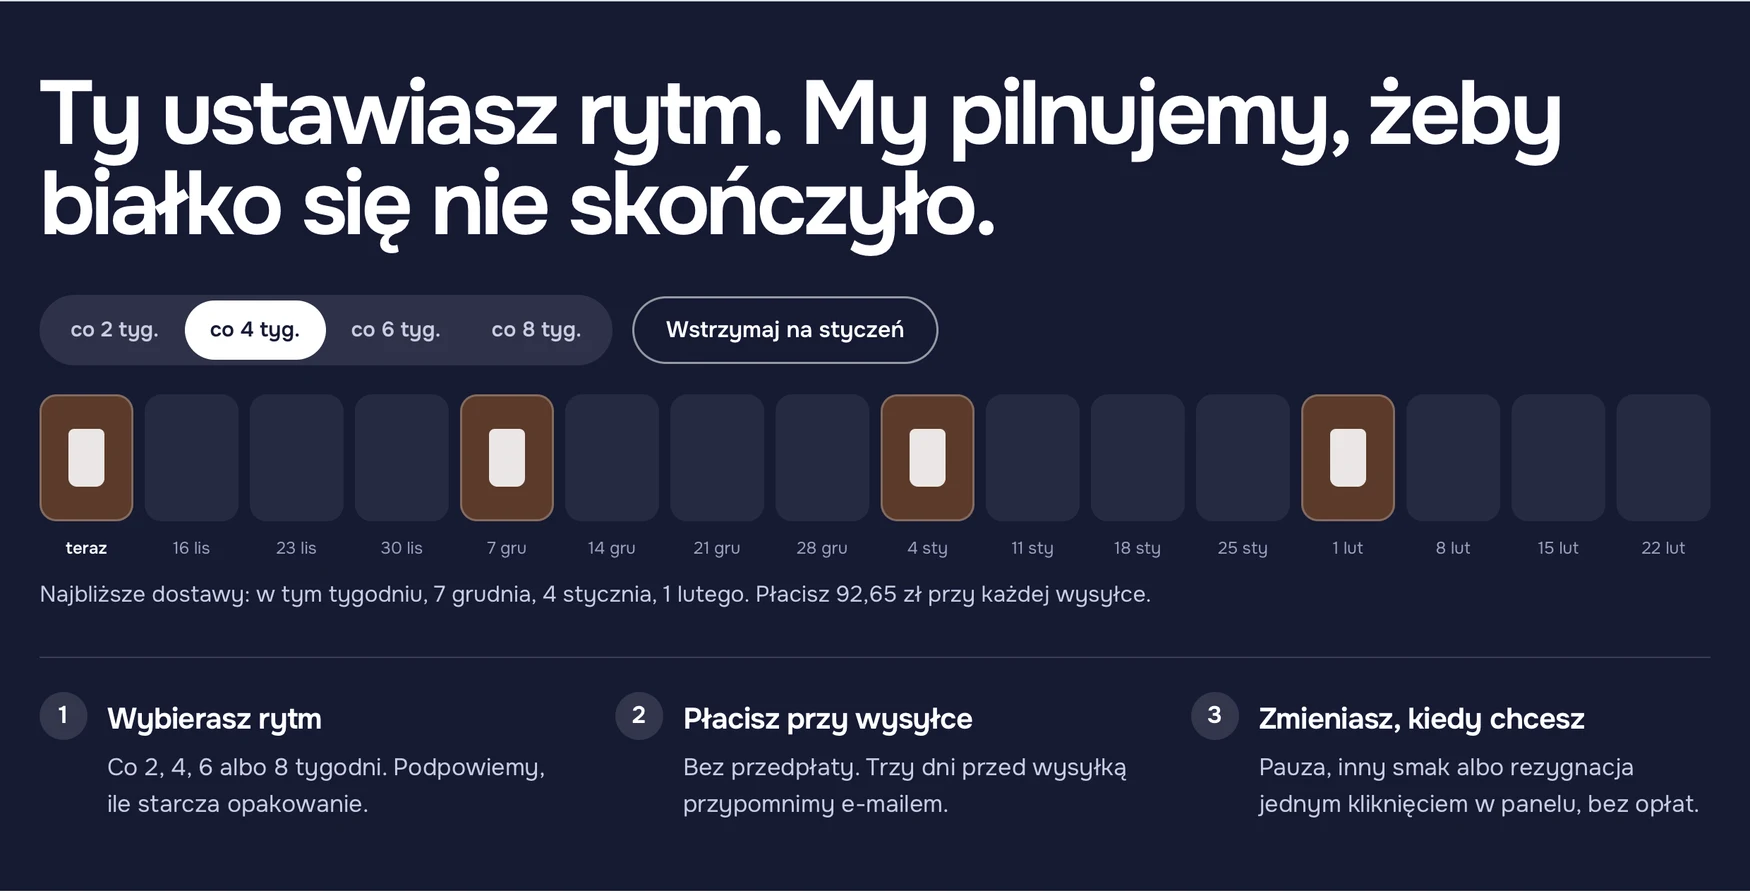
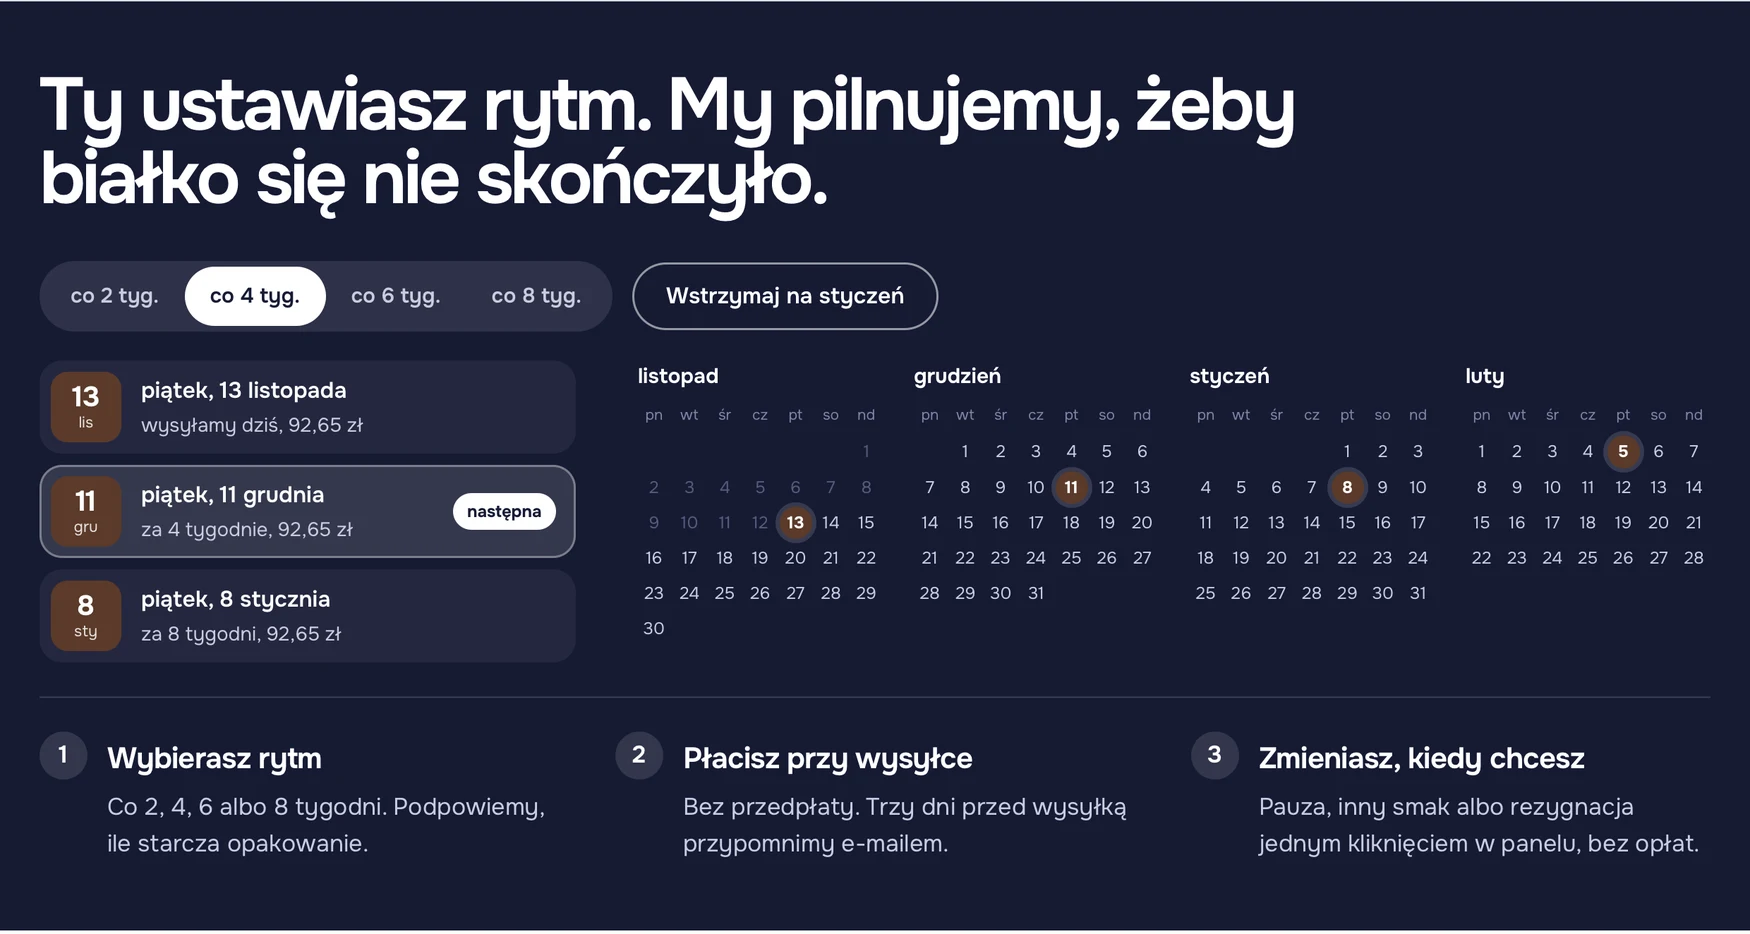
Plan dostaw: karty z datami i kalendarz 4 miesięcy
- Zamiast 16 tygodniowych kafelków: 3 najbliższe dostawy z datą, dniem
  tygodnia, „za ile” i kwotą (druga wyróżniona jako „następna”) oraz
  kalendarz 4 miesięcy z zaznaczonymi dniami dostaw. Najechanie na
  kartę podświetla jej dzień. Pauza: styczeń zakreskowany, dostawa
  przesunięta na 1 lutego. Daty zgodne z panelem zakupu.
- Sekcja dalej mieści się na ekranie laptopa (662 px przy 668 px).
- Prezentacja: nowy zrzut i obrysy na slajdzie 12, teksty slajdów
  12–13, źródło Baymard o datach dostawy.

diff --git a/src/produkt.css b/src/produkt.css
@@ -300,21 +300,44 @@ th.wciecie { padding-left: 16px; color: var(--granat-2); }
 
 /* ---------- rytm ---------- */
 .rytm { background: var(--granat); color: #fff; margin-top: clamp(24px, 4vh, 48px); padding: clamp(36px, 6vh, 64px) 0; overflow: hidden; }
-.rytm .haslo { max-width: 26ch; }
+.rytm .haslo { max-width: 26ch; font-size: clamp(32px, min(4.6vw, 6.6vh), 70px) !important; }
 .rytm-w { max-width: var(--szer); margin: 0 auto; padding: 0 var(--gutter); }
 .rytm-sterowanie { display: flex; flex-wrap: wrap; gap: 14px; align-items: center; margin: clamp(22px, 4vh, 44px) 0 clamp(16px, 2.6vh, 28px); }
 .segment { display: inline-flex; padding: 4px; border-radius: 999px; background: rgba(255,255,255,.1); }
 .segment button { border: 0; background: none; color: #c9cde0; min-height: 42px; padding: 0 18px; border-radius: 999px; font-weight: 600; font-size: 15px; transition: background-color .25s, color .25s; }
 .segment button[aria-checked='true'] { background: #fff; color: var(--granat); }
-.os { display: grid; grid-template-columns: repeat(16, 1fr); gap: 8px; }
-.tydzien { display: grid; gap: 10px; justify-items: center; font-size: 12px; color: #9aa0bd; }
-.tydzien .slot { width: 100%; aspect-ratio: 1 / 1.35; border-radius: 12px; background: rgba(255,255,255,.07); position: relative; display: grid; place-items: center; }
-.tydzien.dostawa .slot { background: var(--opak); box-shadow: inset 0 0 0 1.5px rgba(255,255,255,.25); }
-.tydzien.dostawa .slot::after { content: ''; width: 38%; height: 46%; border-radius: 4px 4px 6px 6px; background: rgba(255,255,255,.88); }
-.tydzien.pauza .slot { background: repeating-linear-gradient(135deg, rgba(255,255,255,.05) 0 6px, rgba(255,255,255,.12) 6px 12px); }
-.tydzien.dzis { color: #fff; font-weight: 600; }
-.os-opis { margin-top: 12px; color: #c9cde0; font-size: 16px; min-height: 1.5em; }
-.kroki { display: grid; grid-template-columns: repeat(3, 1fr); gap: 40px; margin-top: clamp(24px, 4vh, 48px); counter-reset: krok; border-top: 1px solid rgba(255,255,255,.16); padding-top: clamp(20px, 3vh, 32px); }
+/* plan dostaw: karty z datami + kalendarz 4 miesięcy */
+.plan-dostaw { display: grid; grid-template-columns: minmax(0, 380px) minmax(0, 1fr); gap: 44px; align-items: start; }
+.karty-dostaw { display: grid; gap: 8px; }
+.karta-dostawy {
+  display: grid; grid-template-columns: 50px 1fr auto; gap: 14px; align-items: center;
+  padding: 8px 14px 8px 8px; border-radius: 16px; background: rgba(255,255,255,.06); transition: background-color .2s;
+}
+.karta-dostawy:hover { background: rgba(255,255,255,.11); }
+.karta-dostawy.nastepna { background: rgba(255,255,255,.13); box-shadow: inset 0 0 0 1.5px rgba(255,255,255,.35); }
+.kd-dzien {
+  width: 50px; height: 50px; border-radius: 12px; background: var(--opak); color: var(--opak-tekst);
+  display: grid; place-items: center; align-content: center; line-height: 1; transition: background-color .6s;
+}
+.kd-dzien b { font-size: 20px; letter-spacing: -.02em; }
+.kd-dzien small { font-size: 11px; opacity: .85; margin-top: 2px; }
+.kd-tresc { display: grid; gap: 2px; min-width: 0; }
+.kd-tresc b { font-size: 16px; font-weight: 600; }
+.kd-tresc small { font-size: 14px; color: #c9cde0; }
+.kd-znacznik { font-size: 12px; font-weight: 700; padding: 4px 10px; border-radius: 999px; background: #fff; color: var(--granat); }
+.kalendarz { display: grid; grid-template-columns: repeat(4, minmax(0, 1fr)); gap: 22px; }
+.miesiac h3 { display: flex; justify-content: space-between; align-items: center; gap: 6px; font-size: 15px; font-weight: 650; margin-bottom: 8px; }
+.miesiac h3 small { font-size: 11px; font-weight: 650; padding: 2px 8px; border-radius: 999px; background: rgba(255,255,255,.14); color: #fff; }
+.miesiac ol { display: grid; grid-template-columns: repeat(7, 1fr); gap: 2px; font-size: 12px; text-align: center; font-variant-numeric: tabular-nums; }
+.miesiac li { aspect-ratio: 1; display: grid; place-items: center; border-radius: 50%; color: #c9cde0; transition: transform .2s, box-shadow .2s; }
+.miesiac .dn { aspect-ratio: auto; padding-bottom: 4px; font-size: 10.5px; color: #7f86a6; }
+.miesiac .przeszly { color: #555b7c; }
+.miesiac .dzis { box-shadow: inset 0 0 0 1.5px #fff; color: #fff; font-weight: 650; }
+.miesiac .dostawa { background: var(--opak); color: var(--opak-tekst); font-weight: 700; box-shadow: 0 0 0 3px rgba(255,255,255,.14); }
+.miesiac .podswietl { transform: scale(1.3); box-shadow: 0 0 0 3px #fff; }
+.miesiac.wstrzymany ol { border-radius: 12px; background: repeating-linear-gradient(135deg, rgba(255,255,255,.04) 0 6px, rgba(255,255,255,.1) 6px 12px); }
+.miesiac.wstrzymany li:not(.dn) { opacity: .4; }
+.kroki { display: grid; grid-template-columns: repeat(3, 1fr); gap: 40px; margin-top: clamp(18px, 3vh, 44px); counter-reset: krok; border-top: 1px solid rgba(255,255,255,.16); padding-top: clamp(20px, 3vh, 32px); }
 .kroki li { display: grid; grid-template-columns: 34px 1fr; column-gap: 14px; align-content: start; }
 .kroki li > * { grid-column: 2; }
 .kroki li { counter-increment: krok; }
@@ -538,8 +561,8 @@ th.wciecie { padding-left: 16px; color: var(--granat-2); }
   .lista-opinii { grid-template-columns: 1fr; }
   .razem-karta label { grid-template-columns: 96px 1fr; align-items: center; }
   .razem-obraz { height: 96px; }
-  .os { grid-template-columns: repeat(8, 1fr); }
-  .tydzien:nth-child(n+9) { display: none; }
+  .plan-dostaw { grid-template-columns: 1fr; gap: 28px; }
+  .kalendarz { grid-template-columns: repeat(2, minmax(0, 1fr)); gap: 20px 18px; }
   .kroki { grid-template-columns: 1fr; gap: 28px; }
   .polecane-lista { grid-template-columns: repeat(2, 1fr); }
   .polecany .razem-obraz { height: 160px; }

diff --git a/src/produkt.js b/src/produkt.js
@@ -409,30 +409,76 @@ $('#pauza').addEventListener('click', (e) => {
   renderOs();
 });
 
-function renderOs() {
-  const dzis = new Date();
-  const start = dodajDni(dzis, -((dzis.getDay() + 6) % 7)); // poniedziałek tego tygodnia
-  const tyg = Array.from({ length: 16 }, (_, i) => dodajDni(start, i * 7));
-  const wStyczniu = (d) => d.getMonth() === 0;
-  const dostawy = new Set();
-  let i = 0;
-  while (i < 16) {
-    if (stan.pauza && wStyczniu(tyg[i])) { i += 1; continue; } // pauza przesuwa dostawę na pierwszy tydzień po styczniu
-    dostawy.add(i);
-    i += stan.rytm;
+// Plan dostaw: karty z datami (odpowiedź na „kiedy przyjdzie paczka”) + kalendarz 4 miesięcy obok,
+// żeby było widać, gdzie te daty leżą w czasie. Pierwsza paczka wychodzi dziś, kolejne co X tygodni.
+// Pauza na styczeń przesuwa styczniową dostawę na 1 lutego, a dalej rytm liczy się od niej.
+const KART = 3;
+const MIESIECY = 4;
+const klucz = (d) => `${d.getFullYear()}-${d.getMonth() + 1}-${d.getDate()}`;
+function planDostaw(doDaty) {
+  const dzis = new Date(); dzis.setHours(0, 0, 0, 0);
+  const plan = [];
+  let d = new Date(dzis);
+  while (plan.length < KART || d <= doDaty) {
+    let przesunieta = null;
+    if (stan.pauza && d.getMonth() === 0) { przesunieta = d; d = new Date(d.getFullYear(), 1, 1); }
+    plan.push({ data: d, przesunieta, dni: Math.round((d - dzis) / 864e5) });
+    d = dodajDni(d, stan.rytm * 7);
   }
-  $('#os').innerHTML = tyg.map((d, k) => {
-    const klasy = ['tydzien', dostawy.has(k) ? 'dostawa' : '', stan.pauza && wStyczniu(d) ? 'pauza' : '', k === 0 ? 'dzis' : ''].join(' ');
-    const etyk = k === 0 ? 'teraz' : dataPl(d, { day: 'numeric', month: 'short' }).replace('.', '');
-    return `<li class="${klasy}"><span class="slot"></span><span>${etyk}</span></li>`;
+  return plan;
+}
+function kiedy(dni) {
+  if (dni === 0) return 'wysyłamy dziś';
+  const t = Math.round(dni / 7);
+  return t === 1 ? 'za tydzień' : `za ${t} ${t < 5 ? 'tygodnie' : 'tygodni'}`;
+}
+
+function renderOs() {
+  const dzis = new Date(); dzis.setHours(0, 0, 0, 0);
+  const koniec = new Date(dzis.getFullYear(), dzis.getMonth() + MIESIECY, 0); // ostatni dzień 4. miesiąca
+  const plan = planDostaw(koniec);
+  const kwota = zl.format(cenaSub(stan.wielkosc));
+
+  $('#karty-dostaw').innerHTML = plan.slice(0, KART).map((p, i) => `
+    <li class="karta-dostawy${i === 1 ? ' nastepna' : ''}" data-dzien="${klucz(p.data)}">
+      <span class="kd-dzien"><b>${p.data.getDate()}</b><small>${dataPl(p.data, { month: 'short' }).replace('.', '')}</small></span>
+      <span class="kd-tresc">
+        <b>${dataPl(p.data, { weekday: 'long', day: 'numeric', month: 'long' })}</b>
+        <small>${p.przesunieta ? `przesunięta z ${dataPl(p.przesunieta)} (pauza)` : kiedy(p.dni)}, ${kwota}</small>
+      </span>
+      ${i === 1 ? '<span class="kd-znacznik">następna</span>' : ''}
+    </li>`).join('');
+
+  const dostawy = new Set(plan.map((p) => klucz(p.data)));
+  const DNI = ['pn', 'wt', 'śr', 'cz', 'pt', 'so', 'nd'];
+  $('#kalendarz').innerHTML = Array.from({ length: MIESIECY }, (_, m) => {
+    const pierwszy = new Date(dzis.getFullYear(), dzis.getMonth() + m, 1);
+    const ileDni = new Date(pierwszy.getFullYear(), pierwszy.getMonth() + 1, 0).getDate();
+    const przesuniecie = (pierwszy.getDay() + 6) % 7; // poniedziałek jako pierwszy dzień tygodnia
+    const wstrzymany = stan.pauza && pierwszy.getMonth() === 0;
+    const dni = Array.from({ length: ileDni }, (_, k) => {
+      const d = new Date(pierwszy.getFullYear(), pierwszy.getMonth(), k + 1);
+      const klasy = [d < dzis ? 'przeszly' : '', +d === +dzis ? 'dzis' : '', dostawy.has(klucz(d)) ? 'dostawa' : ''].filter(Boolean).join(' ');
+      return `<li class="${klasy}" data-dzien="${klucz(d)}">${k + 1}</li>`;
+    }).join('');
+    return `<div class="miesiac${wstrzymany ? ' wstrzymany' : ''}">
+      <h3>${dataPl(pierwszy, { month: 'long' })}${wstrzymany ? '<small>wstrzymany</small>' : ''}</h3>
+      <ol>${DNI.map((n) => `<li class="dn">${n}</li>`).join('')}${'<li></li>'.repeat(przesuniecie)}${dni}</ol>
+    </div>`;
   }).join('');
-  const daty = [...dostawy].slice(0, 4).map((k) => (k === 0 ? 'w tym tygodniu' : dataPl(tyg[k])));
-  $('#os-opis').textContent = `${stan.pauza ? 'Styczeń wstrzymany. ' : ''}Najbliższe dostawy: ${daty.join(', ')}. Płacisz ${zl.format(cenaSub(stan.wielkosc))} przy każdej wysyłce.`;
+
   if (!ruchOgraniczony && renderOs.gotowe) {
-    gsap.from('#os .dostawa .slot', { scale: 0.6, opacity: 0, duration: 0.5, stagger: 0.04, ease: 'back.out(2)' });
+    gsap.from('.miesiac .dostawa, .kd-dzien', { scale: 0.6, opacity: 0, duration: 0.45, stagger: 0.03, ease: 'back.out(2)' });
   }
   renderOs.gotowe = true;
 }
+// najechanie na kartę pokazuje jej dzień w kalendarzu
+$('#karty-dostaw').addEventListener('pointerover', (e) => {
+  const k = e.target.closest('.karta-dostawy');
+  $$('.miesiac .podswietl').forEach((x) => x.classList.remove('podswietl'));
+  if (k) $(`.miesiac [data-dzien="${k.dataset.dzien}"]`)?.classList.add('podswietl');
+});
+$('#karty-dostaw').addEventListener('pointerleave', () => $$('.miesiac .podswietl').forEach((x) => x.classList.remove('podswietl')));
 
 // ------------------------------------------------------ okna i toast
 const OKNA = {

diff --git a/prezentacja.html b/prezentacja.html
@@ -341,7 +341,7 @@
               <p class="metka">Makieta hi-fi, niżej na stronie</p>
               <h2 class="sredni">Zasady subskrypcji widać przed zakupem</h2>
               <ul class="lista-zasad">
-                <li data-krok="1">Oś dostaw pokazuje datę i kwotę każdej paczki.</li>
+                <li data-krok="1">Najbliższe dostawy z datą, dniem tygodnia i kwotą, a obok kalendarz.</li>
                 <li data-krok="2">Pauza jednym kliknięciem, na przykład na styczeń.</li>
                 <li data-krok="3">Rezygnacja to przycisk w panelu: bez dzwonienia i bez opłat.</li>
               </ul>
@@ -349,10 +349,10 @@
             </div>
             <div class="ramka-przegladarki ramka-ciemna">
               <div class="z-obrysami">
-                <img src="/prezentacja/hifi_subskrypcja.webp" alt="Sekcja subskrypcji: wybór rytmu, przycisk Wstrzymaj na styczeń, oś dostaw i trzy kroki" />
-                <span class="obrys obrys--jasny" data-krok="1" data-x="1.6" data-y="42.8" data-w="96.8" data-h="21.2"></span>
-                <span class="obrys obrys--jasny" data-krok="2" data-x="35.7" data-y="32.1" data-w="18.4" data-h="9.5"></span>
-                <span class="obrys obrys--jasny" data-krok="3" data-x="67.3" data-y="76" data-w="31.3" data-h="18"></span>
+                <img src="/prezentacja/hifi_subskrypcja.webp" alt="Sekcja subskrypcji: wybór rytmu, przycisk Wstrzymaj na styczeń, karty najbliższych dostaw, kalendarz czterech miesięcy i trzy kroki" />
+                <span class="obrys obrys--jasny" data-krok="1" data-x="1.5" data-y="37.2" data-w="97.1" data-h="35.4"></span>
+                <span class="obrys obrys--jasny" data-krok="2" data-x="35.7" data-y="27.3" data-w="18.4" data-h="9.1"></span>
+                <span class="obrys obrys--jasny" data-krok="3" data-x="67.3" data-y="77" data-w="31.3" data-h="17.3"></span>
               </div>
             </div>
           </div>
@@ -367,7 +367,7 @@
               <ol class="kroki-demo">
                 <li data-krok="1">Zmieniam smak</li>
                 <li data-krok="1">Zmieniam wielkość i rytm dostaw</li>
-                <li data-krok="1">Wstrzymuję styczeń na osi dostaw</li>
+                <li data-krok="1">Wstrzymuję styczeń w kalendarzu dostaw</li>
                 <li data-krok="1">Dodaję do koszyka</li>
               </ol>
               <a class="przycisk-demo" href="./produkt.html" target="_blank" rel="noopener" data-krok="2">Otwórz stronę produktu</a>
@@ -387,6 +387,7 @@
           <div class="zrodla">
             <ul>
               <li>Baymard Institute (2026). <i>Cart Abandonment Rate Statistics</i>. baymard.com, dostęp 13.11.2026.</li>
+              <li>Baymard Institute. <i>Use “Delivery Date” Not “Shipping Speed”</i>. baymard.com, dostęp 13.11.2026.</li>
               <li>Fessenden, T. (2018). <i>Scrolling and Attention</i>. Nielsen Norman Group.</li>
               <li>Hick, W. E. (1952). On the rate of gain of information. <i>Quarterly Journal of Experimental Psychology</i>, 4(1), 11–26.</li>
               <li>Lindgaard, G., Fernandes, G., Dudek, C., Brown, J. (2006). Attention web designers: You have 50 milliseconds to make a good first impression! <i>Behaviour &amp; Information Technology</i>, 25(2), 115–126.</li>

diff --git a/produkt.html b/produkt.html
@@ -296,8 +296,10 @@
             <div class="segment" role="radiogroup" aria-label="Dostawa co" id="segment"></div>
             <button type="button" class="pigulka pigulka--obrys-jasna" id="pauza" aria-pressed="false">Wstrzymaj na styczeń</button>
           </div>
-          <ol class="os" id="os" aria-label="Najbliższe 16 tygodni"></ol>
-          <p class="os-opis" id="os-opis" aria-live="polite"></p>
+          <div class="plan-dostaw">
+            <ol class="karty-dostaw" id="karty-dostaw" aria-label="Najbliższe dostawy" aria-live="polite"></ol>
+            <div class="kalendarz" id="kalendarz" aria-hidden="true"></div>
+          </div>
           <ol class="kroki">
             <li><h3>Wybierasz rytm</h3><p>Co 2, 4, 6 albo 8 tygodni. Podpowiemy, ile starcza opakowanie.</p></li>
             <li><h3>Płacisz przy wysyłce</h3><p>Bez przedpłaty. Trzy dni przed wysyłką przypomnimy e-mailem.</p></li>

diff --git a/ZGODNOSC-Z-PRAWEM.md b/ZGODNOSC-Z-PRAWEM.md
@@ -185,7 +185,7 @@ Dane sprzedawcy w demo są **fikcyjne i oczywiście nieprawdziwe**, żeby nie po
 - **Na stronie:** zanim klient zamówi, widzi wprost: „Płacisz X zł co N tygodni. Następna płatność: [data]. Możesz zmienić, wstrzymać lub zrezygnować w każdej chwili w panelu konta — bez opłat”. Na 3 dni przed odnowieniem przychodzi przypomnienie e-mailem. Rezygnacja zajmuje 1–2 kliknięcia w panelu (pkt 13), bez dzwonienia i bez „czy na pewno?” powtarzanego kilka razy.
 - **Dlaczego tak:** UOKiK wymienia utrudnianie rezygnacji i ciche przechodzenie z darmowego okresu w płatny jako typowe manipulacje (dark patterns). Przy umowie przedłużanej automatycznie trzeba podać zasady jej trwania i wypowiedzenia. Unia przygotowuje Digital Fairness Act (projekt zapowiedziany na listopad 2026), który ma zaostrzyć zasady subskrypcji.
 - **Podstawa:** ustawa o prawach konsumenta, art. 12 ust. 1 pkt 16 [S2]; ustawa o przeciwdziałaniu nieuczciwym praktykom rynkowym [S6]; UOKiK o dark patterns [S17].
-- **W demo:** ✅ na `produkt.html` wybór rytmu (2/4/6/8 tyg.), data następnej dostawy, „bez przedpłaty, pauza jednym kliknięciem”, oś dostaw z pauzą na styczeń. Panel konta jeszcze nie istnieje.
+- **W demo:** ✅ na `produkt.html` wybór rytmu (2/4/6/8 tyg.), data następnej dostawy, „bez przedpłaty, pauza jednym kliknięciem”, plan dostaw: 3 najbliższe dostawy z datą, dniem tygodnia i kwotą plus kalendarz 4 miesięcy z zaznaczonymi dniami dostaw; pauza na styczeń przesuwa dostawę na 1 lutego. Panel konta jeszcze nie istnieje.
 
 ### 19. Potwierdzenie zamówienia
 - **Na stronie:** po zamówieniu ekran „Dziękujemy” z numerem zamówienia i informacją, że potwierdzenie zostało wysłane e-mailem. E-mail zawiera podsumowanie zamówienia, Regulamin (PDF), informacje o odstąpieniu i formularz odstąpienia.
